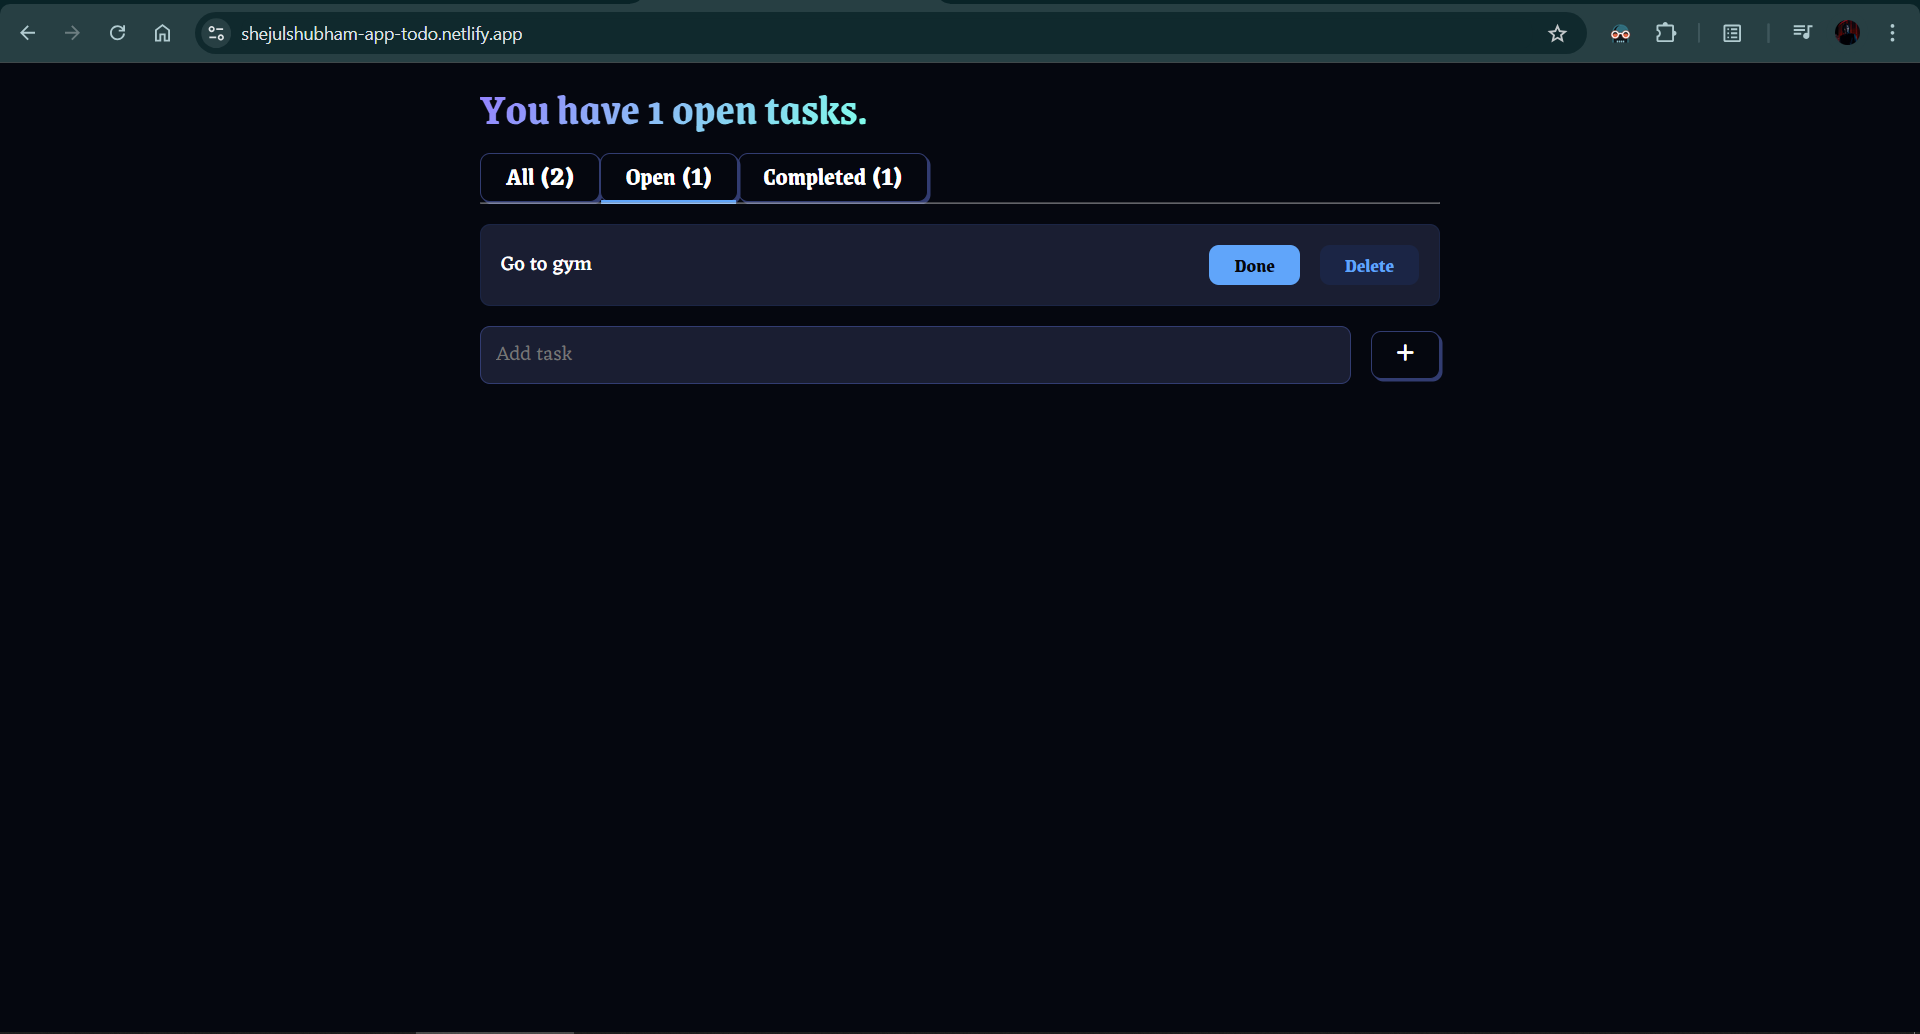
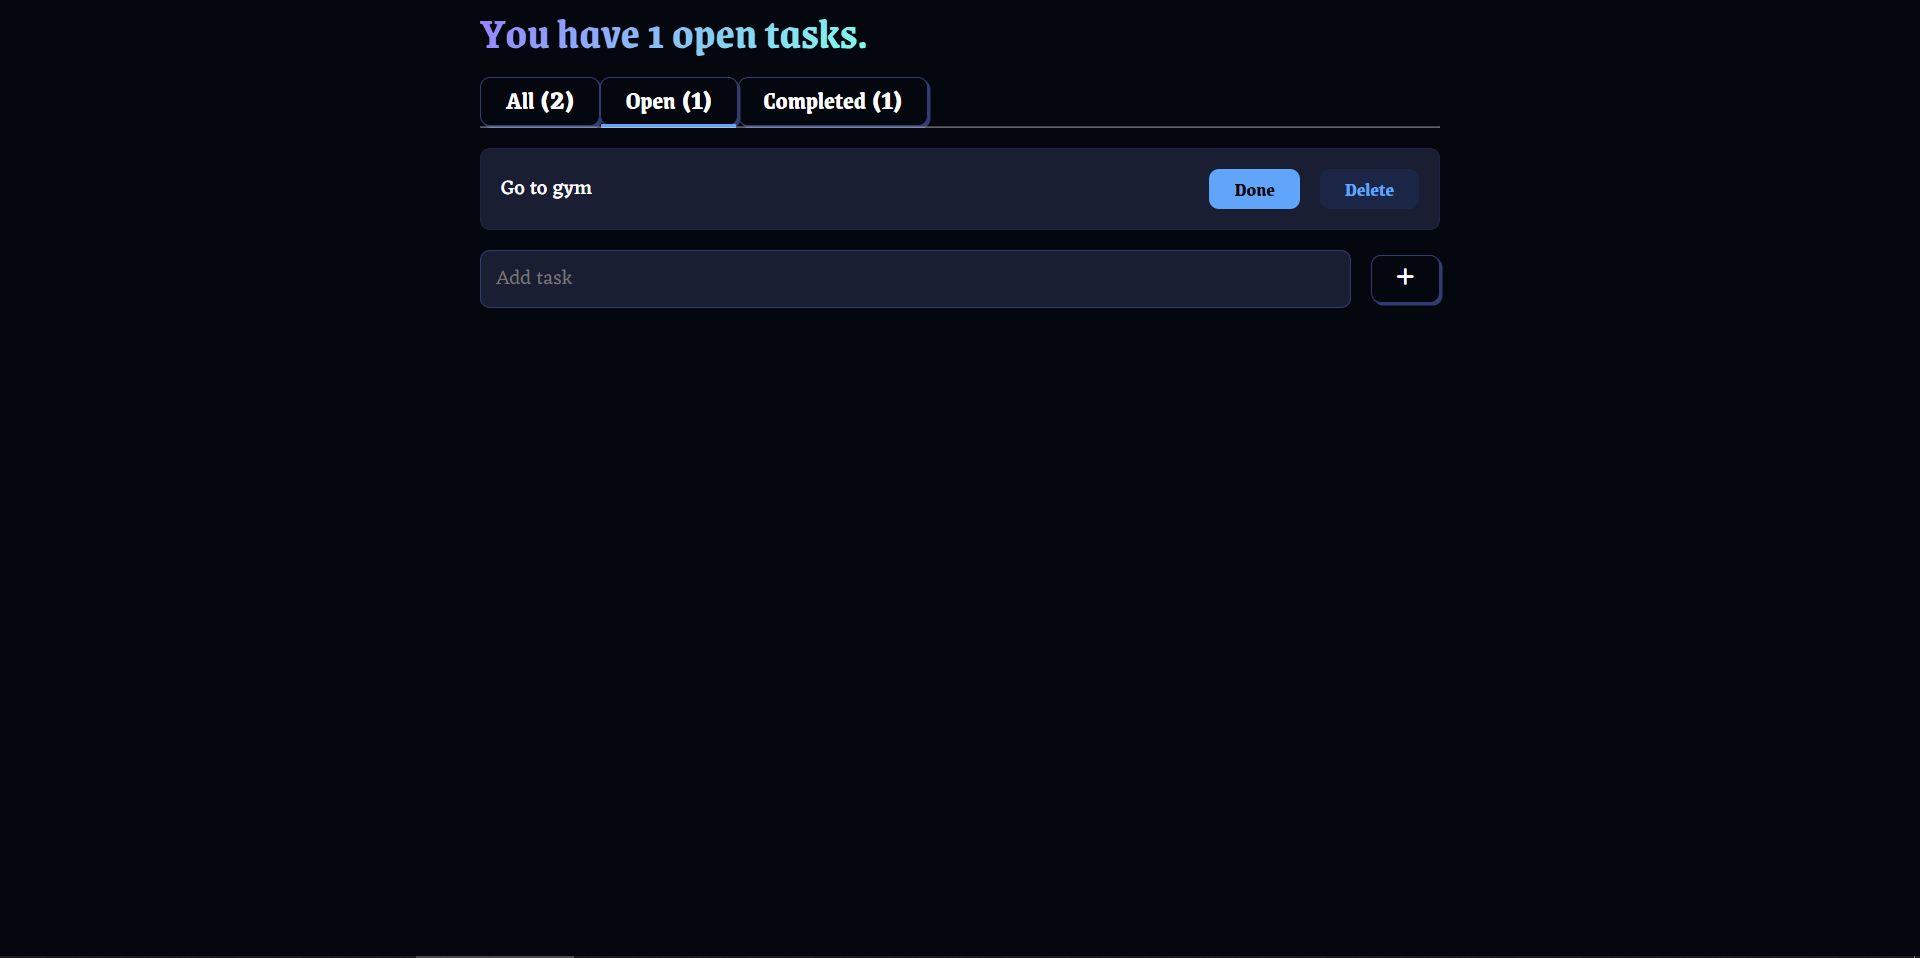
README changes

Changed region(s): [[0.25, 0.0908, 0.75, 0.3935], [0.0, 0.0, 1.0, 0.0605]]

diff --git a/README.md b/README.md
@@ -1,5 +1,4 @@
 # Cool To-do App
 
-Link to the Website: https://shejulshubham-app-todo.netlify.app/
 
-![todo](https://github.com/user-attachments/assets/dd24de4f-e161-4558-8de0-9be205a04cdc)
+![Still from Website](/public/todo.png)
